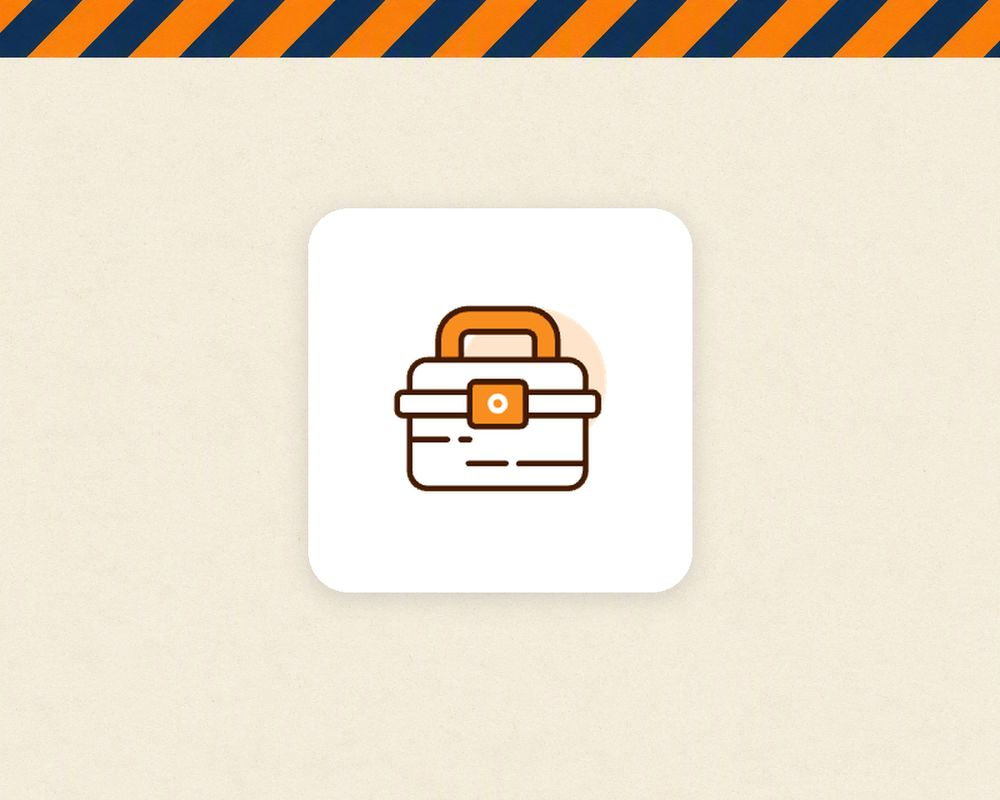
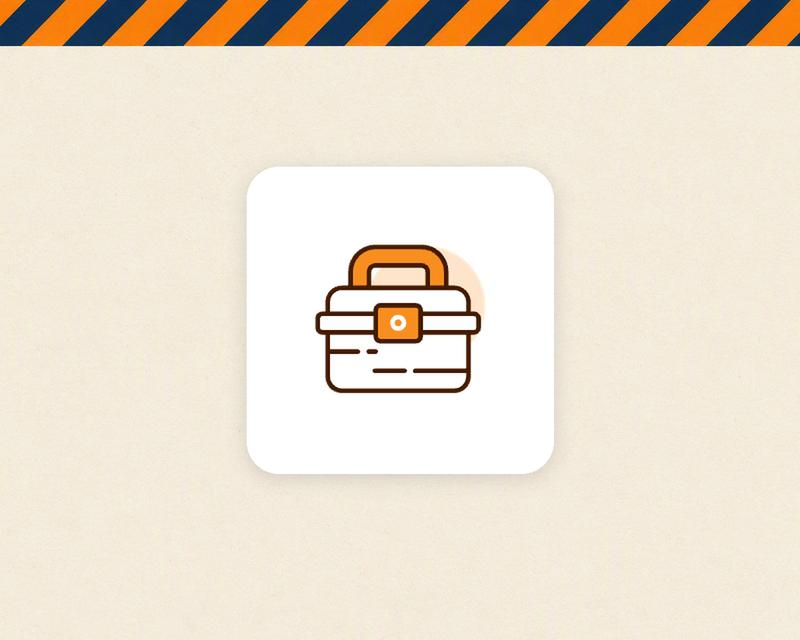
分享图再压至 800×640（单张约 30KB）：体验评分 200K 限额按包内图片音频资源合计计算

Changed region(s): [[0.4062, 0.5, 0.4375, 0.5625], [0.5, 0.5, 0.5312, 0.5312]]

diff --git a/design/make_share_images.py b/design/make_share_images.py
@@ -25,7 +25,7 @@ APPS = {
 
 WATERMARK_CROP = 64  # 裁掉底部 AI 生成水印
 SHARE_RATIO = 5 / 4  # 微信分享缩略图按 5:4 显示，源头直接用 5:4 避免被裁偏
-FINAL_WIDTH = 1000   # 出图宽度（高按 5:4 = 800）：兼顾清晰度与单张 <100KB（体验评分要求图片资源不超过 200K）
+FINAL_WIDTH = 800    # 出图宽度（高按 5:4 = 640）：体验评分要求包内图片音频资源合计不超过 200K，需为后续应用分享图留余量；超限时改走 CDN 用 URL 引入
 
 
 def load_background() -> Image.Image:
@@ -95,14 +95,14 @@ def main():
         glyph = render_glyph(cp, ICON_SIZE * 2, ORANGE)
         img = compose(bg, glyph)
         path = OUT_DIR / f'share-{key}.jpg'
-        img.save(path, 'JPEG', quality=80)
+        img.save(path, 'JPEG', quality=75)
         print(f'{path.name}: {img.size}, {path.stat().st_size // 1024}KB')
 
     # 通用分享图（工具箱图标，复用 assets/toolbox.png）
     toolbox = Image.open(TOOLBOX_PATH).convert('RGBA')
     img = compose(bg, toolbox)
     path = OUT_DIR / 'share-toolbox.jpg'
-    img.save(path, 'JPEG', quality=80)
+    img.save(path, 'JPEG', quality=75)
     print(f'{path.name}: {img.size}, {path.stat().st_size // 1024}KB')
 
 

diff --git a/开发指南.md b/开发指南.md
@@ -236,7 +236,7 @@ VALUES ('my-app', '应用名称', 'robot', '/pkg-myapp/pages/index/index', 3, 1)
 
 - `app` 传 `sys_app.app_key`（分享图用应用图标）；非应用页面（首页/登录/管理等）不传，用工具箱分享图；
 - 标题自动拼「xxx · 检修一班工具箱」；分享路径默认当前页，登录页固定落 `/pages/home/home`（首页门控自动处理未登录跳转）；
-- 分享图由 `design/make_share_images.py` 生成：背景统一（暖纸底 + 顶部橙青警示斜纹条），中央白色圆角卡片 + 图标，**尺寸固定 5:4（1000×800，微信分享缩略图按 5:4 裁剪显示，源头必须就是 5:4，否则图标会被裁偏；单张压到 100KB 以内，体验评分「图片和音频资源不超过 200K」才不报错）**。新应用接入时：① 查图标码点——`miniprogram/node_modules/tdesign-miniprogram/miniprogram_dist/icon/icon.wxss` 中 `.t-icon-<图标名>:before` 的 `content`；② 在脚本 `APPS` 字典加 `'app-key': 0x码点` 后重跑，生成 `miniprogram/images/share/share-<app-key>.jpg`；③ `utils/share.js` 的 `SHARE_IMAGES` 加一行映射；
+- 分享图由 `design/make_share_images.py` 生成：背景统一（暖纸底 + 顶部橙青警示斜纹条），中央白色圆角卡片 + 图标，**尺寸固定 5:4（800×640，微信分享缩略图按 5:4 裁剪显示，源头必须就是 5:4，否则图标会被裁偏；体验评分要求包内图片音频资源合计不超过 200K，单张约 30KB 以为后续应用留余量，应用增多超限时改传 COS 用 URL 引入）**。新应用接入时：① 查图标码点——`miniprogram/node_modules/tdesign-miniprogram/miniprogram_dist/icon/icon.wxss` 中 `.t-icon-<图标名>:before` 的 `content`；② 在脚本 `APPS` 字典加 `'app-key': 0x码点` 后重跑，生成 `miniprogram/images/share/share-<app-key>.jpg`；③ `utils/share.js` 的 `SHARE_IMAGES` 加一行映射；
 - 图标字形渲染自 TDesign 图标 webfont `design/font/t.ttf`（版本见上述 icon.wxss 的 `@font-face` URL），升级 tdesign-miniprogram 大版本后需重新下载同步。
 
 ## 六、已接入应用：Call Me（WeKnora 对接）
